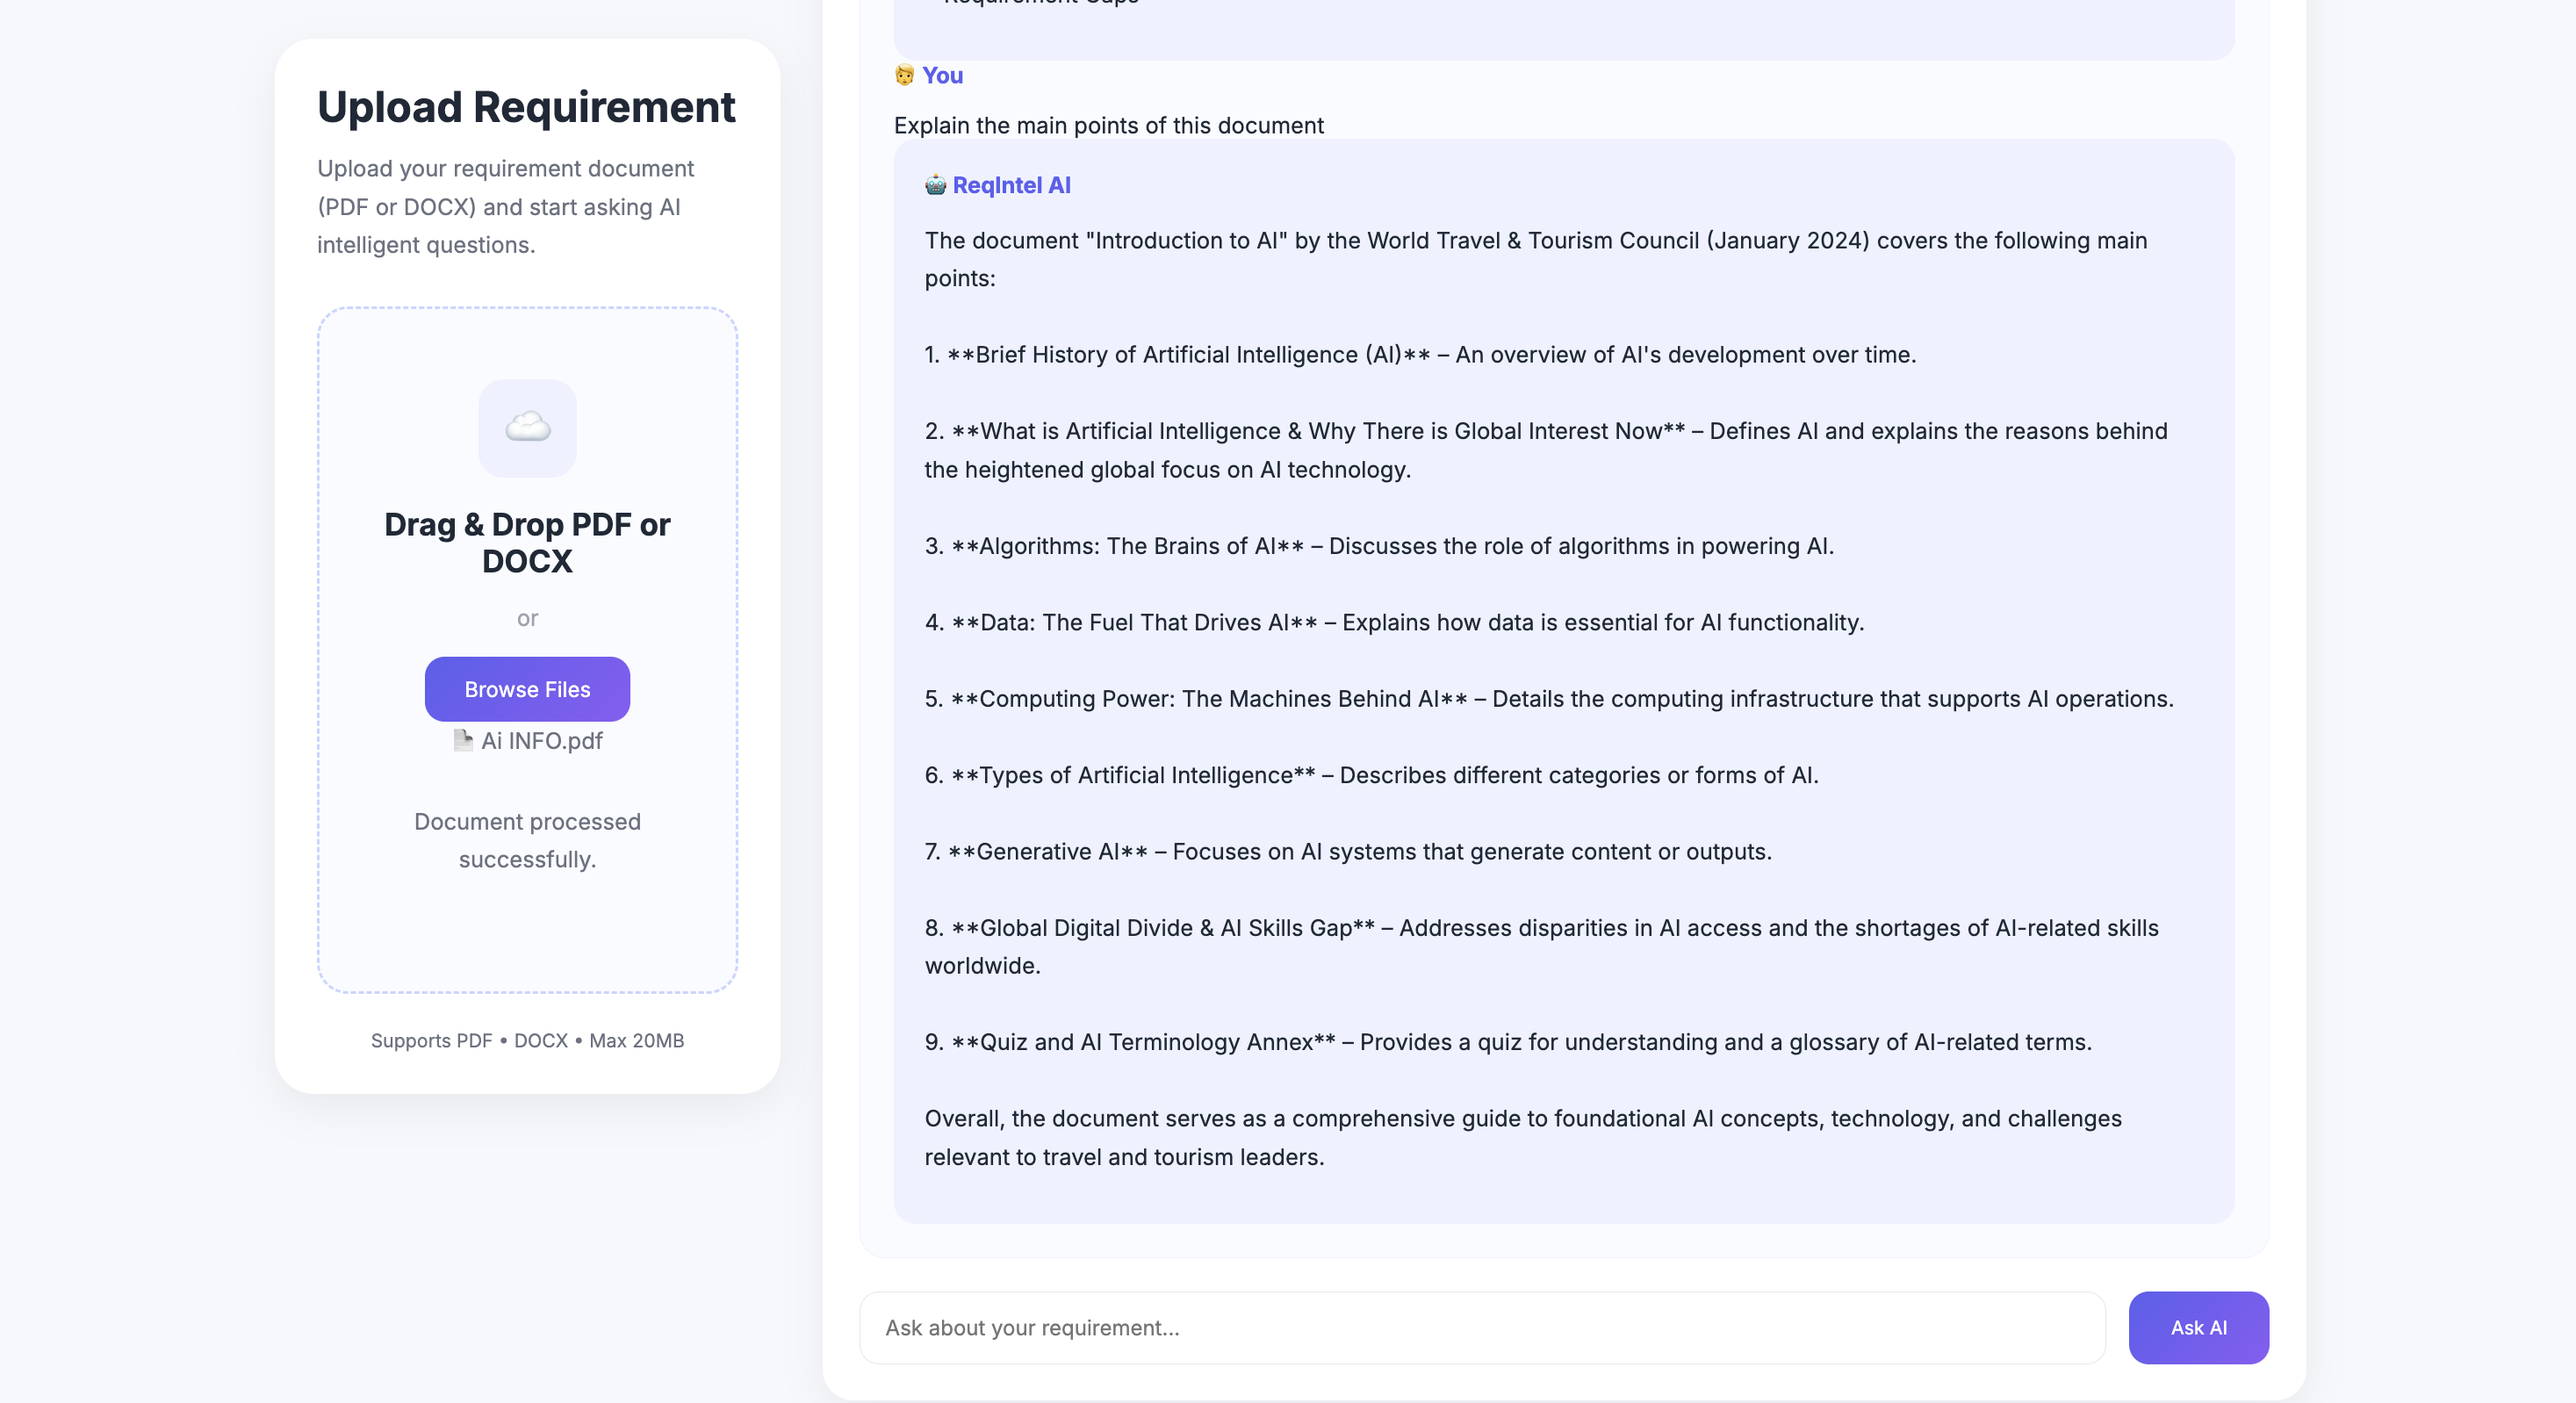
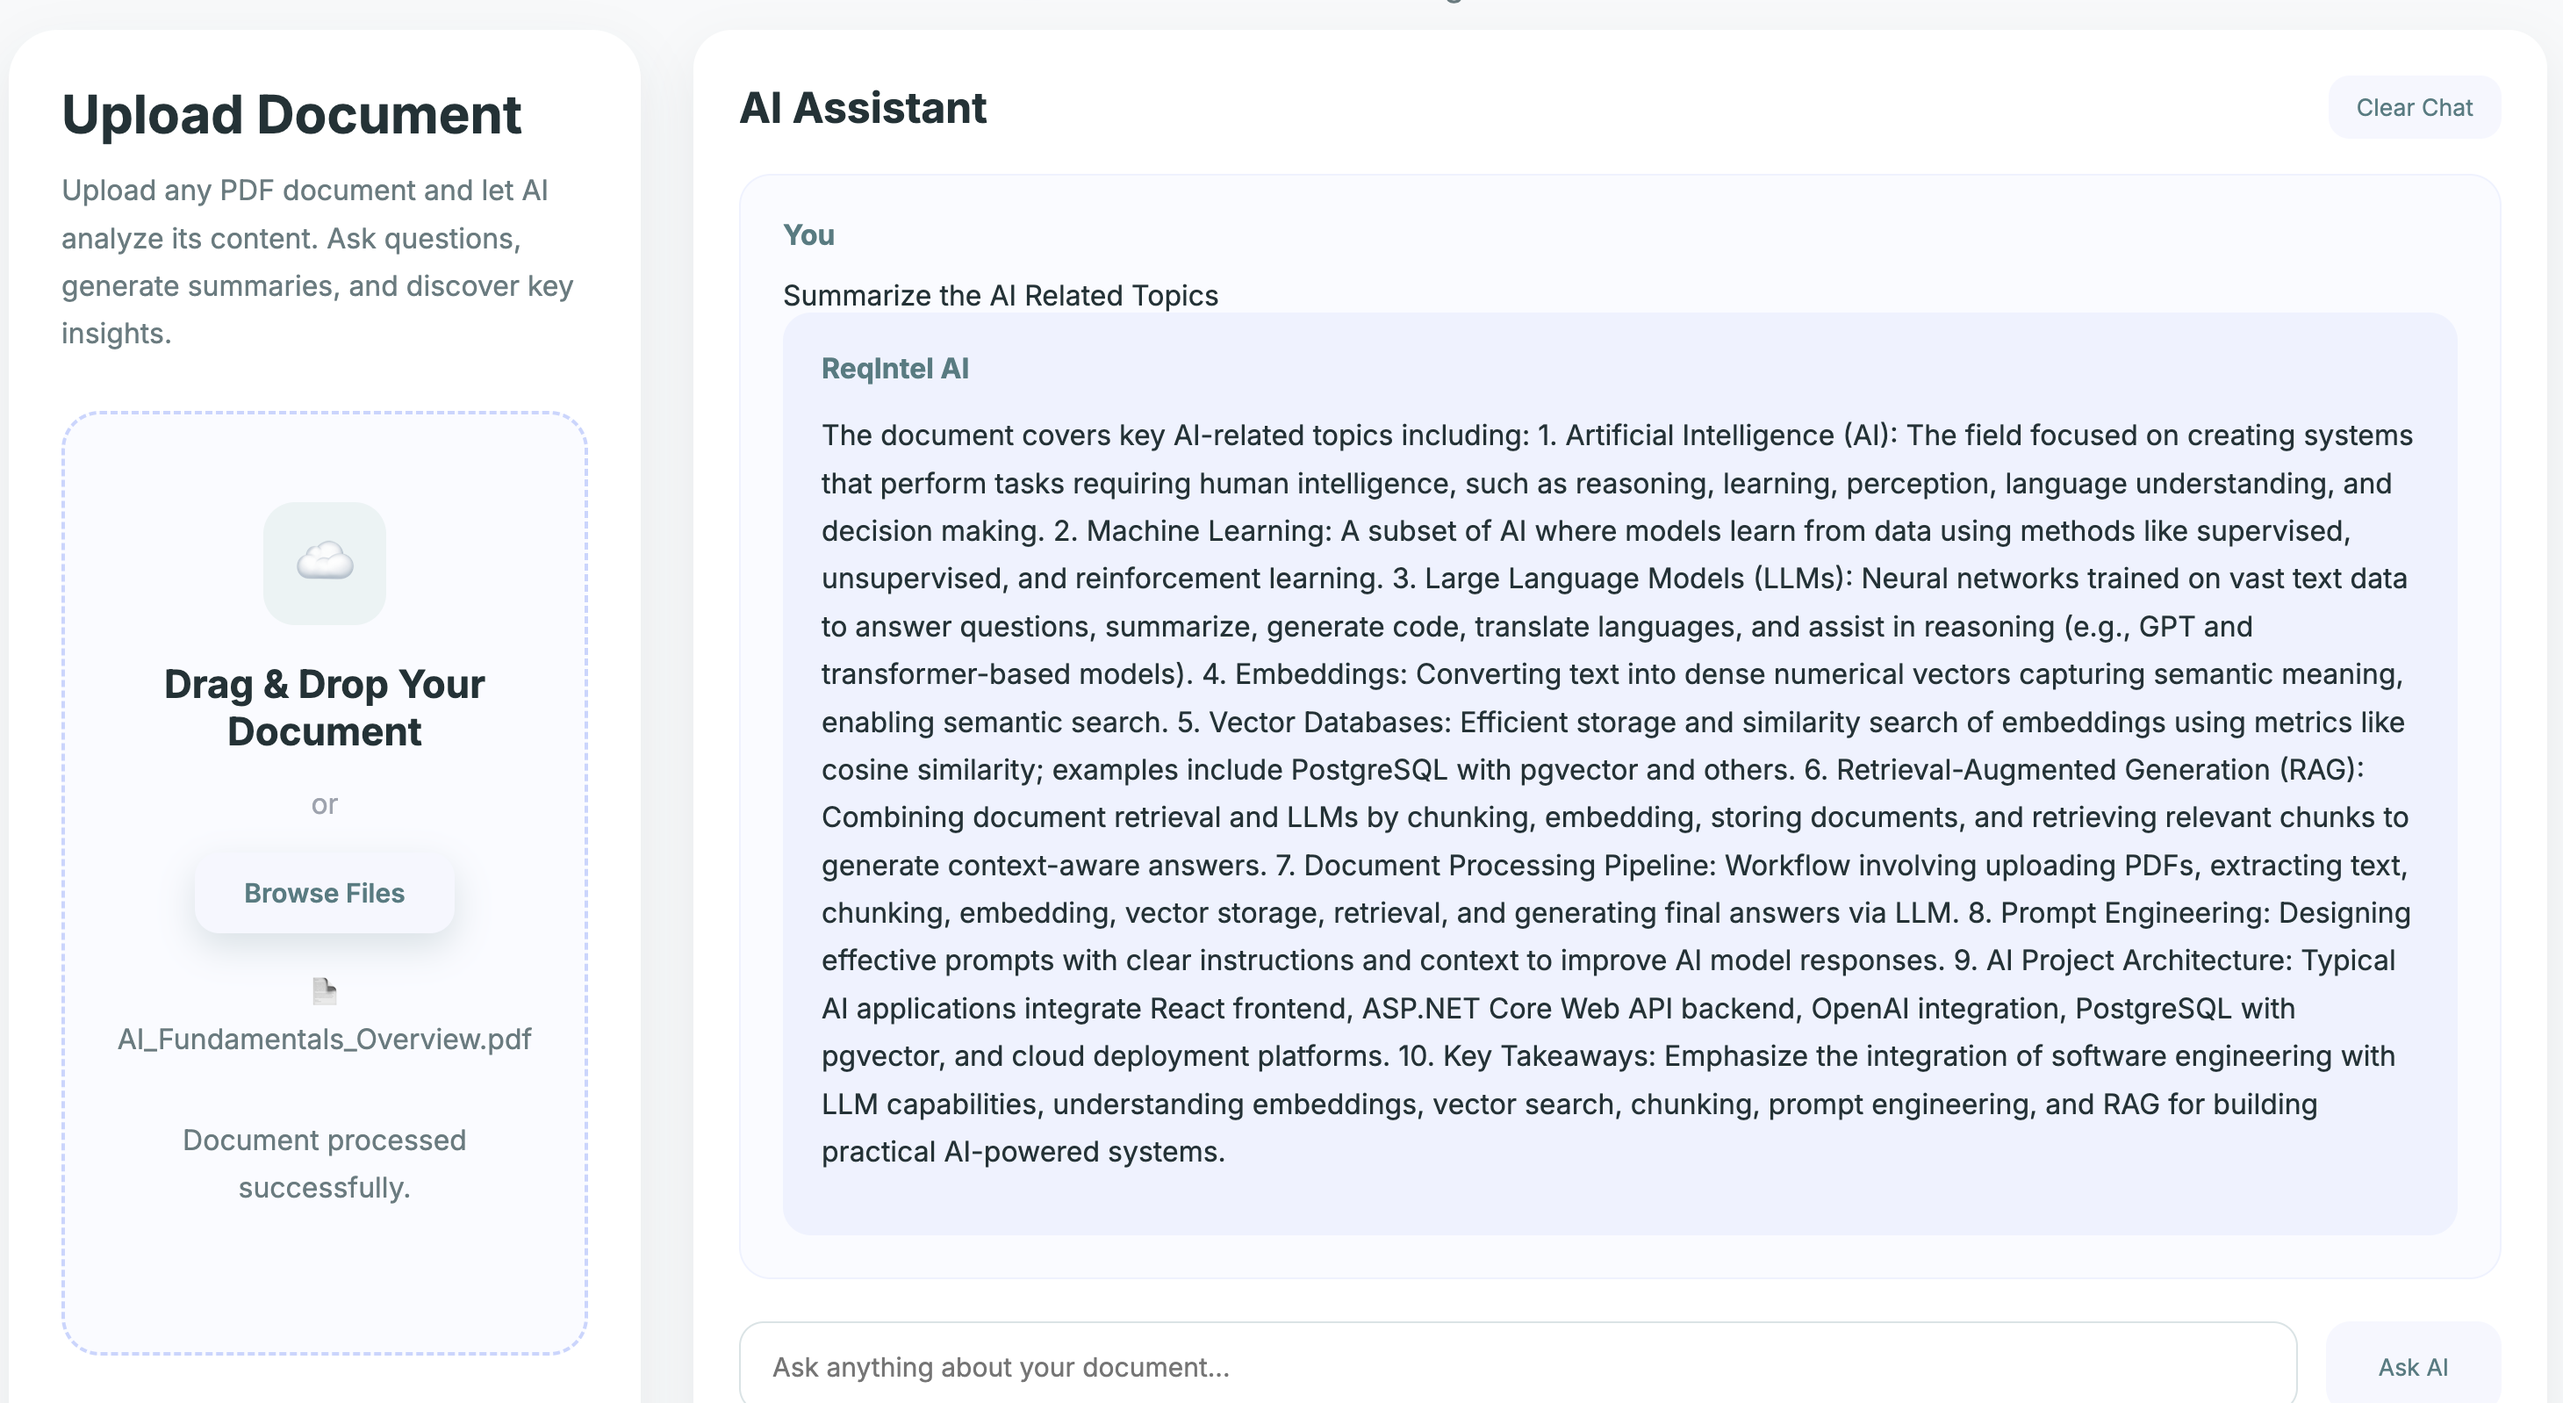
Updates in UI

diff --git a/Frontend/reqintel-ui/src/components/ChatSection.jsx b/Frontend/reqintel-ui/src/components/ChatSection.jsx
@@ -2,28 +2,36 @@ import { useState } from "react";
 import api from "../services/api";
 
 function ChatSection() {
-   const welcomeMessage = {
-    sender: "ai",
-    text: `Hello! 👋
 
-    Upload any PDF document and ask questions in natural language.
-
-    I can help you:
-    • Summarize documents
-    • Answer questions
-    • Explain technical concepts
-    • Extract key information
-    • Identify important sections
-    • Analyze document content
-
-    Start by uploading a document to begin.`
-    };
-
-    const [messages, setMessages] = useState([welcomeMessage]);
+    const [messages, setMessages] = useState([]);
     const [question, setQuestion] = useState("");
     const [loading, setLoading] = useState(false);
 
+    const features = [
+        {
+            icon: "📄",
+            title: "Summarize",
+            description: "Generate concise document summaries."
+        },
+        {
+            icon: "❓",
+            title: "Ask Questions",
+            description: "Ask anything in natural language."
+        },
+        {
+            icon: "🔍",
+            title: "Extract Insights",
+            description: "Identify important information instantly."
+        },
+        {
+            icon: "⭐",
+            title: "Key Sections",
+            description: "Locate relevant sections quickly."
+        }
+    ];
+
     const askQuestion = async () => {
+
         if (!question.trim() || loading)
             return;
 
@@ -55,74 +63,128 @@ function ChatSection() {
             ]);
 
         }
-        catch (error) {
-
-            console.error(error);
+        catch {
 
             setMessages(prev => [
                 ...prev,
                 {
                     sender: "ai",
-                    text: "Unable to process your request. Please try again."
+                    text: "Unable to process your request."
                 }
             ]);
 
         }
         finally {
+
             setLoading(false);
+
         }
+
     };
 
     const clearChat = () => {
-        setMessages([welcomeMessage]);
-        setQuestion("");
+
+        setMessages([]);
+
     };
 
     return (
+
         <section className="chat-section">
 
             <div className="chat-header">
-                <h2>💬 AI Assistant</h2>
 
-                <button
-                    className="clear-btn"
-                    onClick={clearChat}
-                >
-                    Clear Chat
-                </button>
+                <h2>AI Assistant</h2>
+
+                {messages.length > 0 && (
+
+                    <button
+                        className="clear-btn"
+                        onClick={clearChat}
+                    >
+                        Clear Chat
+                    </button>
+
+                )}
+
             </div>
 
             <div className="chat-window">
 
-                {messages.map((message, index) => (
+                {messages.length === 0 ? (
 
-                    <div
-                        key={index}
-                        className={
-                            message.sender === "user"
-                                ? "user-message"
-                                : "ai-message"
-                        }
-                    >
-                        <div className="message-header">
-                            {message.sender === "user"
-                                ? "🧑 You"
-                                : "🤖 ReqIntel AI"}
+                    <div className="welcome-screen">
+
+                        <h2>👋 Welcome to ReqIntel AI</h2>
+
+                        <p>
+                            Upload any PDF document and ask questions in natural language.
+                        </p>
+
+                        <div className="feature-grid">
+
+                            {features.map((feature) => (
+
+                                <div
+                                    key={feature.title}
+                                    className="feature-card"
+                                >
+
+                                    <div className="feature-icon">
+                                        {feature.icon}
+                                    </div>
+
+                                    <h3>{feature.title}</h3>
+
+                                    <p>{feature.description}</p>
+
+                                </div>
+
+                            ))}
+
                         </div>
 
-                        <p style={{ whiteSpace: "pre-line" }}>
-                            {message.text}
-                        </p>
+                        <small>
+                            Upload a document to start chatting with AI.
+                        </small>
+
                     </div>
 
-                ))}
+                ) : (
+
+                    messages.map((message, index) => (
+
+                        <div
+                            key={index}
+                            className={
+                                message.sender === "user"
+                                    ? "user-message"
+                                    : "ai-message"
+                            }
+                        >
+
+                            <div className="message-header">
+
+                                {message.sender === "user"
+                                    ? "You"
+                                    : "ReqIntel AI"}
+
+                            </div>
+
+                            <p>{message.text}</p>
+
+                        </div>
+
+                    ))
+
+                )}
 
                 {loading && (
 
                     <div className="ai-message">
 
                         <div className="message-header">
-                            🤖 ReqIntel AI
+                            ReqIntel AI
                         </div>
 
                         <p>Thinking...</p>
@@ -137,14 +199,10 @@ function ChatSection() {
 
                 <input
                     type="text"
-                    placeholder="Ask about your requirement..."
+                    placeholder="Ask anything about your document..."
                     value={question}
                     onChange={(e) => setQuestion(e.target.value)}
-                    onKeyDown={(e) => {
-                        if (e.key === "Enter") {
-                            askQuestion();
-                        }
-                    }}
+                    onKeyDown={(e) => e.key === "Enter" && askQuestion()}
                 />
 
                 <button
@@ -157,7 +215,9 @@ function ChatSection() {
             </div>
 
         </section>
+
     );
+
 }
 
 export default ChatSection;

diff --git a/Frontend/reqintel-ui/src/App.css b/Frontend/reqintel-ui/src/App.css
@@ -696,3 +696,72 @@ input{
     color:white;
 
 }
+.feature-grid{
+
+    display:grid;
+
+    grid-template-columns:repeat(4,1fr);
+
+    gap:12px;
+
+    margin:28px 0;
+
+}
+
+.feature-card{
+
+    background:var(--surface);
+
+    border:1px solid var(--border);
+
+    border-radius:16px;
+
+    padding:18px 14px;
+
+    text-align:center;
+
+    transition:.25s;
+
+    cursor:default;
+
+}
+
+.feature-card:hover{
+
+    transform:translateY(-3px);
+
+    border-color:var(--primary);
+
+    box-shadow:var(--shadow);
+
+}
+
+.feature-icon{
+
+    font-size:24px;
+
+    margin-bottom:10px;
+
+}
+
+.feature-card h3{
+
+    font-size:15px;
+
+    margin-bottom:6px;
+
+    color:var(--text);
+
+}
+
+.feature-card p{
+
+    font-size:13px;
+
+    color:var(--text-light);
+
+    line-height:1.5;
+
+    margin:0;
+
+}

diff --git a/Frontend/reqintel-ui/src/components/Header.jsx b/Frontend/reqintel-ui/src/components/Header.jsx
@@ -2,7 +2,11 @@ function Header() {
   return (
     <header className="header">
       <div className="logo">
-        ✨ ReqIntel <span>AI</span>
+        <img
+        src="/ReqIntel-AI.png"
+        alt="ReqIntel AI"
+        className="logo-icon"
+    /> ReqIntel <span>AI</span>
       </div>
 
       <p className="tagline">

diff --git a/Frontend/reqintel-ui/index.html b/Frontend/reqintel-ui/index.html
@@ -2,7 +2,7 @@
 <html lang="en">
   <head>
     <meta charset="UTF-8" />
-    <link rel="icon" type="image/svg+xml" href="/favicon.svg" />
+    <link rel="icon" type="image/svg+xml" href="/ReqIntel-AI.png" />
     <meta name="viewport" content="width=device-width, initial-scale=1.0" />
     <title>reqintel-ui</title>
   </head>

diff --git a/README.md b/README.md
@@ -10,7 +10,7 @@ Built with **ASP.NET Core**, **React**, **PostgreSQL + pgvector**, and **OpenAI*
 
 ---
 
-🌐 **Frontend:** https://your-vercel-url.vercel.app
+🌐 **Frontend:** https://reqintel-ai.vercel.app
 
 ⚡ **Backend API:** https://reqintel-ai.onrender.com
 
@@ -22,7 +22,7 @@ Built with **ASP.NET Core**, **React**, **PostgreSQL + pgvector**, and **OpenAI*
 
 ### Upload Document
 
-![Upload](Screenshots/Uplaod.png)
+![Upload](Screenshots/Upload.png)
 
 ---
 
